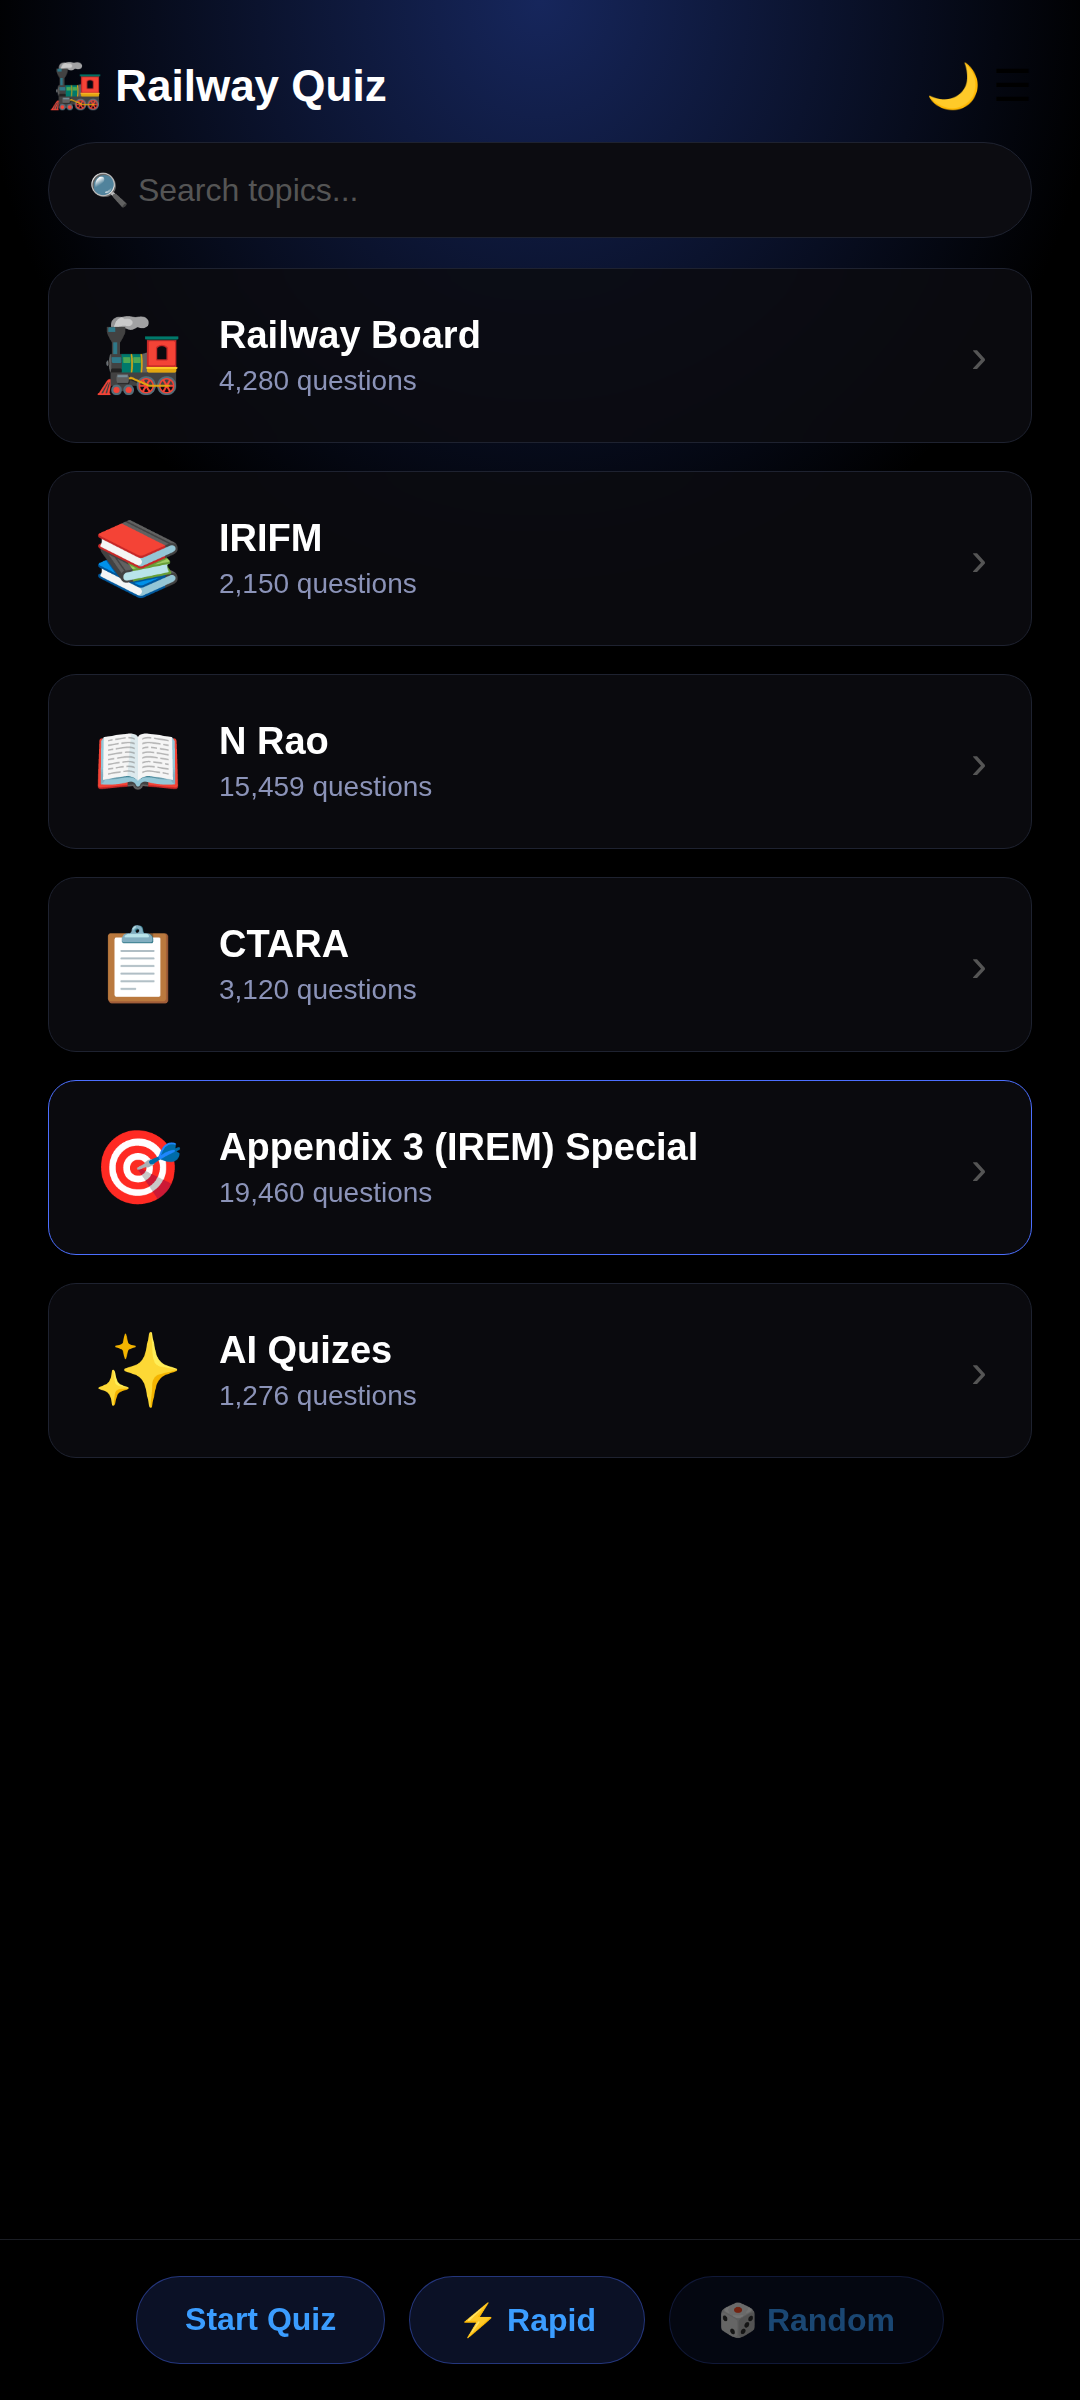
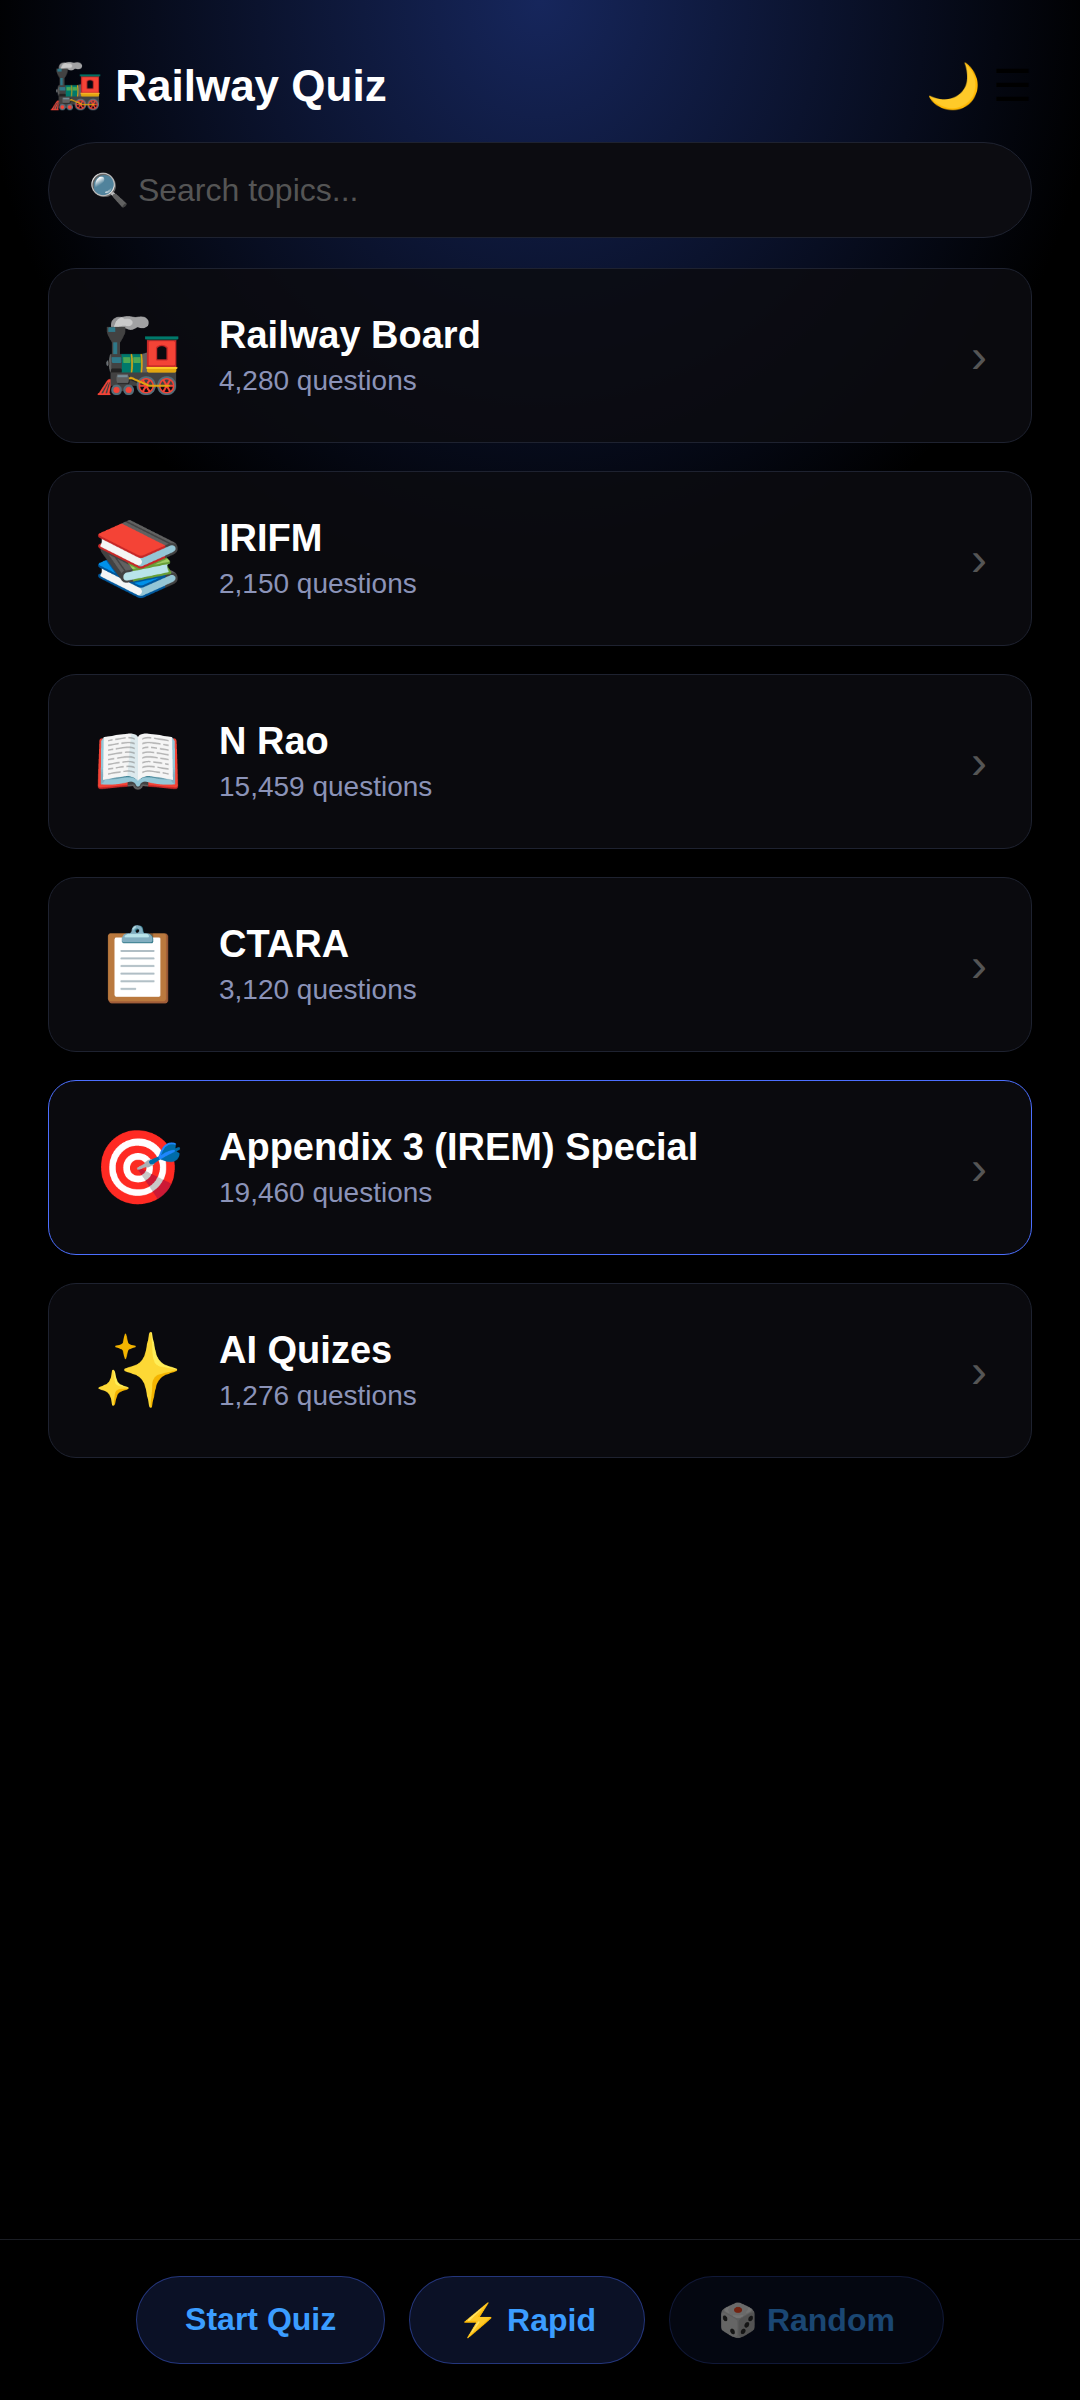
v720 screenshots: login, home, quiz, performance, Paper-I, AI chat

diff --git a/README.md b/README.md
@@ -70,8 +70,9 @@ Every question ships with a **bundled static explanation** that works with **no 
 
 | Login | Home | Quiz Question |
 |---|---|---|
-| ![Login](screenshots/01-login.png) | ![Home](screenshots/02-home.png) | ![Quiz question](screenshots/03-quiz-question.png) |
+| ![Login](screenshots/01-login.png) | ![Home](screenshots/02-home.png) | ![Quiz question](screenshots/quiz-question.png) |
 
 | My Performance | Paper-I | AI Assistant Sr.AI'so |
 |---|---|---|
-| ![My performance](screenshots/04-my-performance.png) | ![Paper-I](screenshots/05-paper1.png) | ![AI chat](screenshots/06-ai-chat.png) |
+| ![My performance](screenshots/my-performance.png) | ![Paper-I](screenshots/paper1.png) | ![AI chat](screenshots/ai-chat.png) |
+
